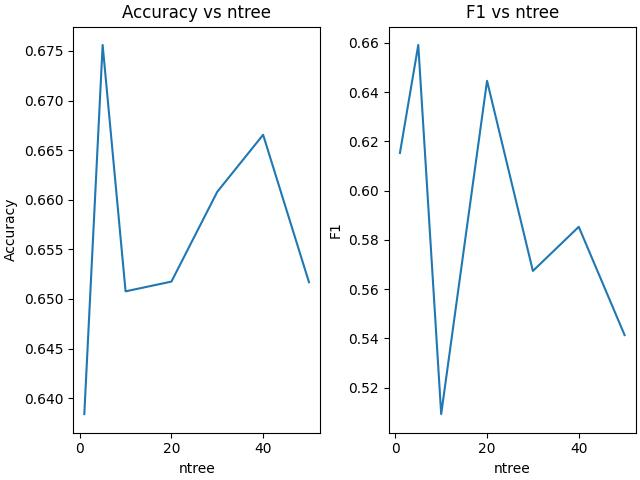
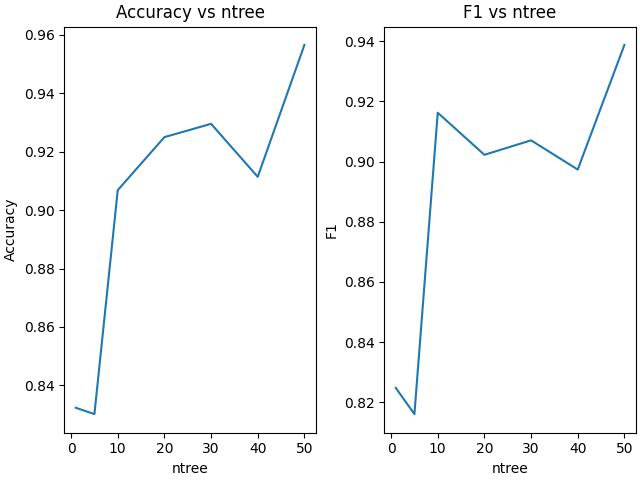
test random forest, fix ordinal encoder

diff --git a/utils.py b/utils.py
@@ -4,7 +4,7 @@ import random
 import numpy as np
 from sklearn.compose import make_column_transformer
 from sklearn.datasets import load_digits
-from sklearn.preprocessing import OneHotEncoder
+from sklearn.preprocessing import OneHotEncoder, OrdinalEncoder
 
 
 def entropy(data):
@@ -172,18 +172,8 @@ def convert_to_float(item):
 
 
 def ordinal_encoding(dataset, categorical_indices):
-    dataset_copy = dataset.copy()
-    for i in categorical_indices:
-        curr_val = 0
-        value_map = dict()
-        for row in dataset_copy:
-            if row[i] not in value_map.keys():
-                row[i] = curr_val
-                value_map[row[i]] = curr_val
-                curr_val += 1
-            else:
-                row[i] = value_map[row[i]]
-    return dataset_copy
+    enc = OrdinalEncoder()
+    dataset[:, categorical_indices] = enc.fit_transform(dataset[:, categorical_indices])
 
 
 def load_data(filename, encode=False):
@@ -203,11 +193,11 @@ def load_data(filename, encode=False):
                 data.append(features)
         # Remove loan id
         data = np.delete(data, 0, axis=1)
-        data = ordinal_encoding(data, [2])
+        ordinal_encoding(data, [2])
         if encode:
             data = one_hot_encode(data, [0, 1, 3, 4, 9, 10])
         else:
-            data = ordinal_encoding(data, [0, 1, 3, 4, 9, 10])
+            ordinal_encoding(data, [0, 1, 3, 4, 9, 10])
 
     elif filename == "titanic.csv":
         with open("datasets/titanic.csv", "r") as file:
@@ -223,7 +213,7 @@ def load_data(filename, encode=False):
         if encode:
             data = one_hot_encode(data, [1])
         else:
-            data = ordinal_encoding(data, [1])
+            ordinal_encoding(data, [1])
     elif filename == "digits":
         data, label = load_digits(return_X_y=True)
     elif filename == "cleveland.csv":
